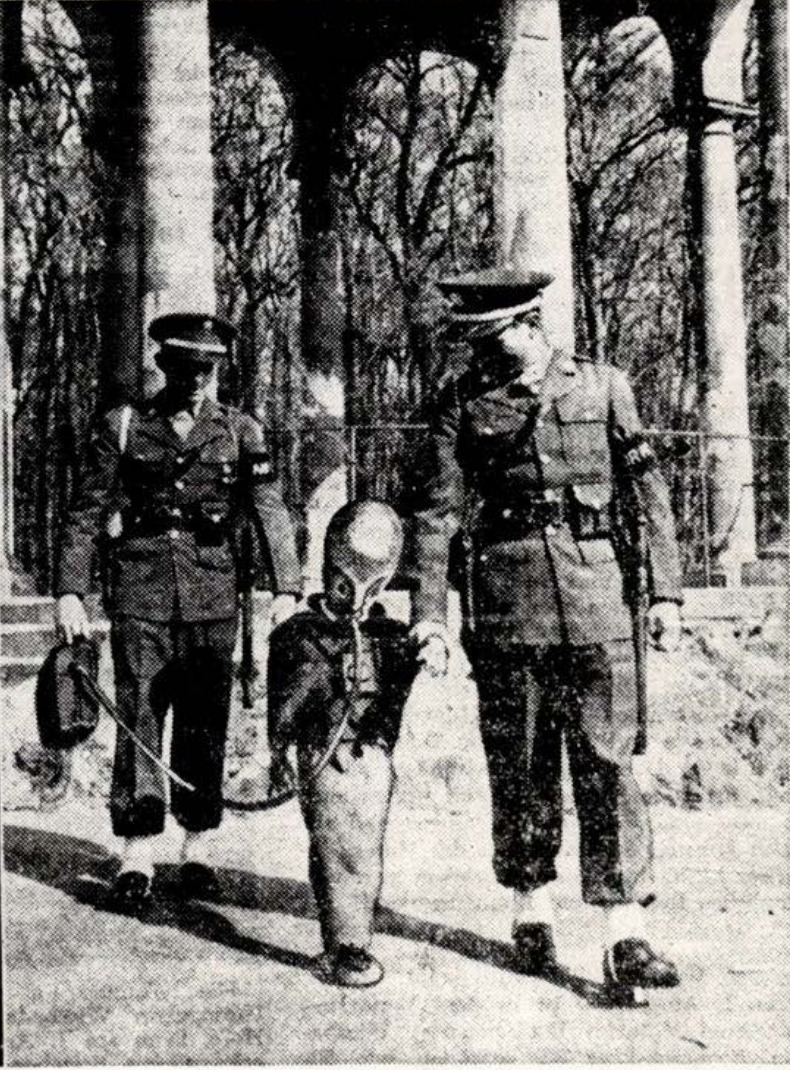
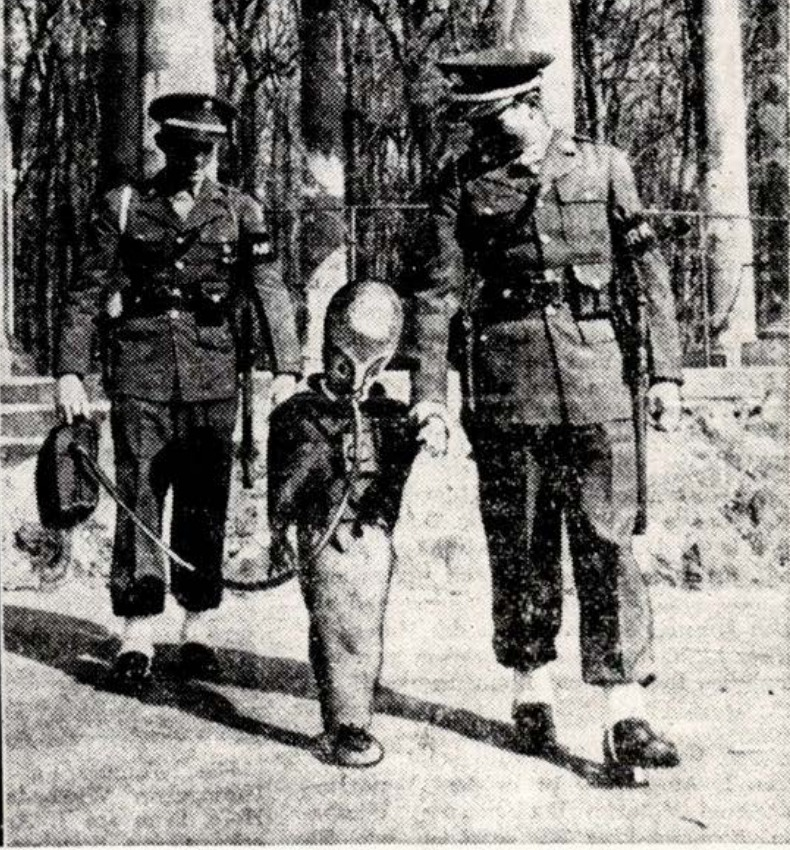
feat(showcase): men-in-black Short — frame 0 photo fills the frame (arches trimmed), loop frame matches (not published)

diff --git a/showcase/articles/men-in-black/short/short.py b/showcase/articles/men-in-black/short/short.py
@@ -47,8 +47,8 @@ def still(img, lines, secs, say, rec, band=(620, 560), box=None, caption=True, s
     vf += [*lines, stamp(*rec)] + (subs(say, sub_y) if caption else [])
     c.seg(["-loop", "1", "-framerate", "30", "-i", img], ",".join(vf), secs, say=say)
 
-PHOTO = dict(band=(440, 800), sub_y=1262)   # the portrait photo gets the tall band
-MRX = (250, 480, 450, 1000)                  # "Mister X" in photo-mrx.jpg
+PHOTO = dict(band=(432, 926), caption=False)  # the photo fills the frame; the headline carries the words
+MRX = (250, 260, 450, 780)                   # "Mister X" in photo-mrx.jpg
 
 def app(lines, secs, say):
     """Archive search "men in black suits": 2 records, Section 9's card quotes p.82; yellow box on the snippet."""
@@ -59,7 +59,7 @@ def app(lines, secs, say):
 TEASE = top("Two agents. One alien?", "It's in the FBI's file", "who are these men?")
 c = Cut()
 # frame 0: the tease (no subtitles), yellow box on "Mister X"
-still(P("photo-mrx.jpg"), TEASE, 2.5, "Two agents. One captured alien. It's in the F B I file.", S5, box=MRX, caption=False, **PHOTO)
+still(P("photo-mrx.jpg"), TEASE, 2.5, "Two agents. One captured alien. It's in the F B I file.", S5, box=MRX, **PHOTO)
 still(P("sold.jpg"), top("New Orleans, May 1950:", "sold for $1.00", "a \"man from Mars\" · p.153"), 2.8,
       "New Orleans, 1950. Someone sells this photo for one dollar.", S5)
 still(P("wiesbaden.jpg"), top("The Army traced it:", "Wiesbaden, Germany", "military police, not agents · p.153"), 2.8,

diff --git a/showcase/articles/men-in-black/images/crops.py b/showcase/articles/men-in-black/images/crops.py
@@ -45,6 +45,6 @@ for name, (segs, contrast) in C.items():
     print(name, out.size)
 # the photo itself (p.154): right half = "Mister X" between two military policemen; whole clipping with caption
 p = Image.open("M5-154.png").convert("RGB")
-p.crop((890, 80, 1680, 1150)).save(f"{OUT}/photo-mrx.jpg", quality=92)
+p.crop((890, 300, 1680, 1150)).save(f"{OUT}/photo-mrx.jpg", quality=92)  # men + "Mister X", arches trimmed
 p.save(f"{OUT}/photo-clipping.jpg", quality=90)
-print("photo-mrx", (790, 1070))
+print("photo-mrx", (790, 850))
